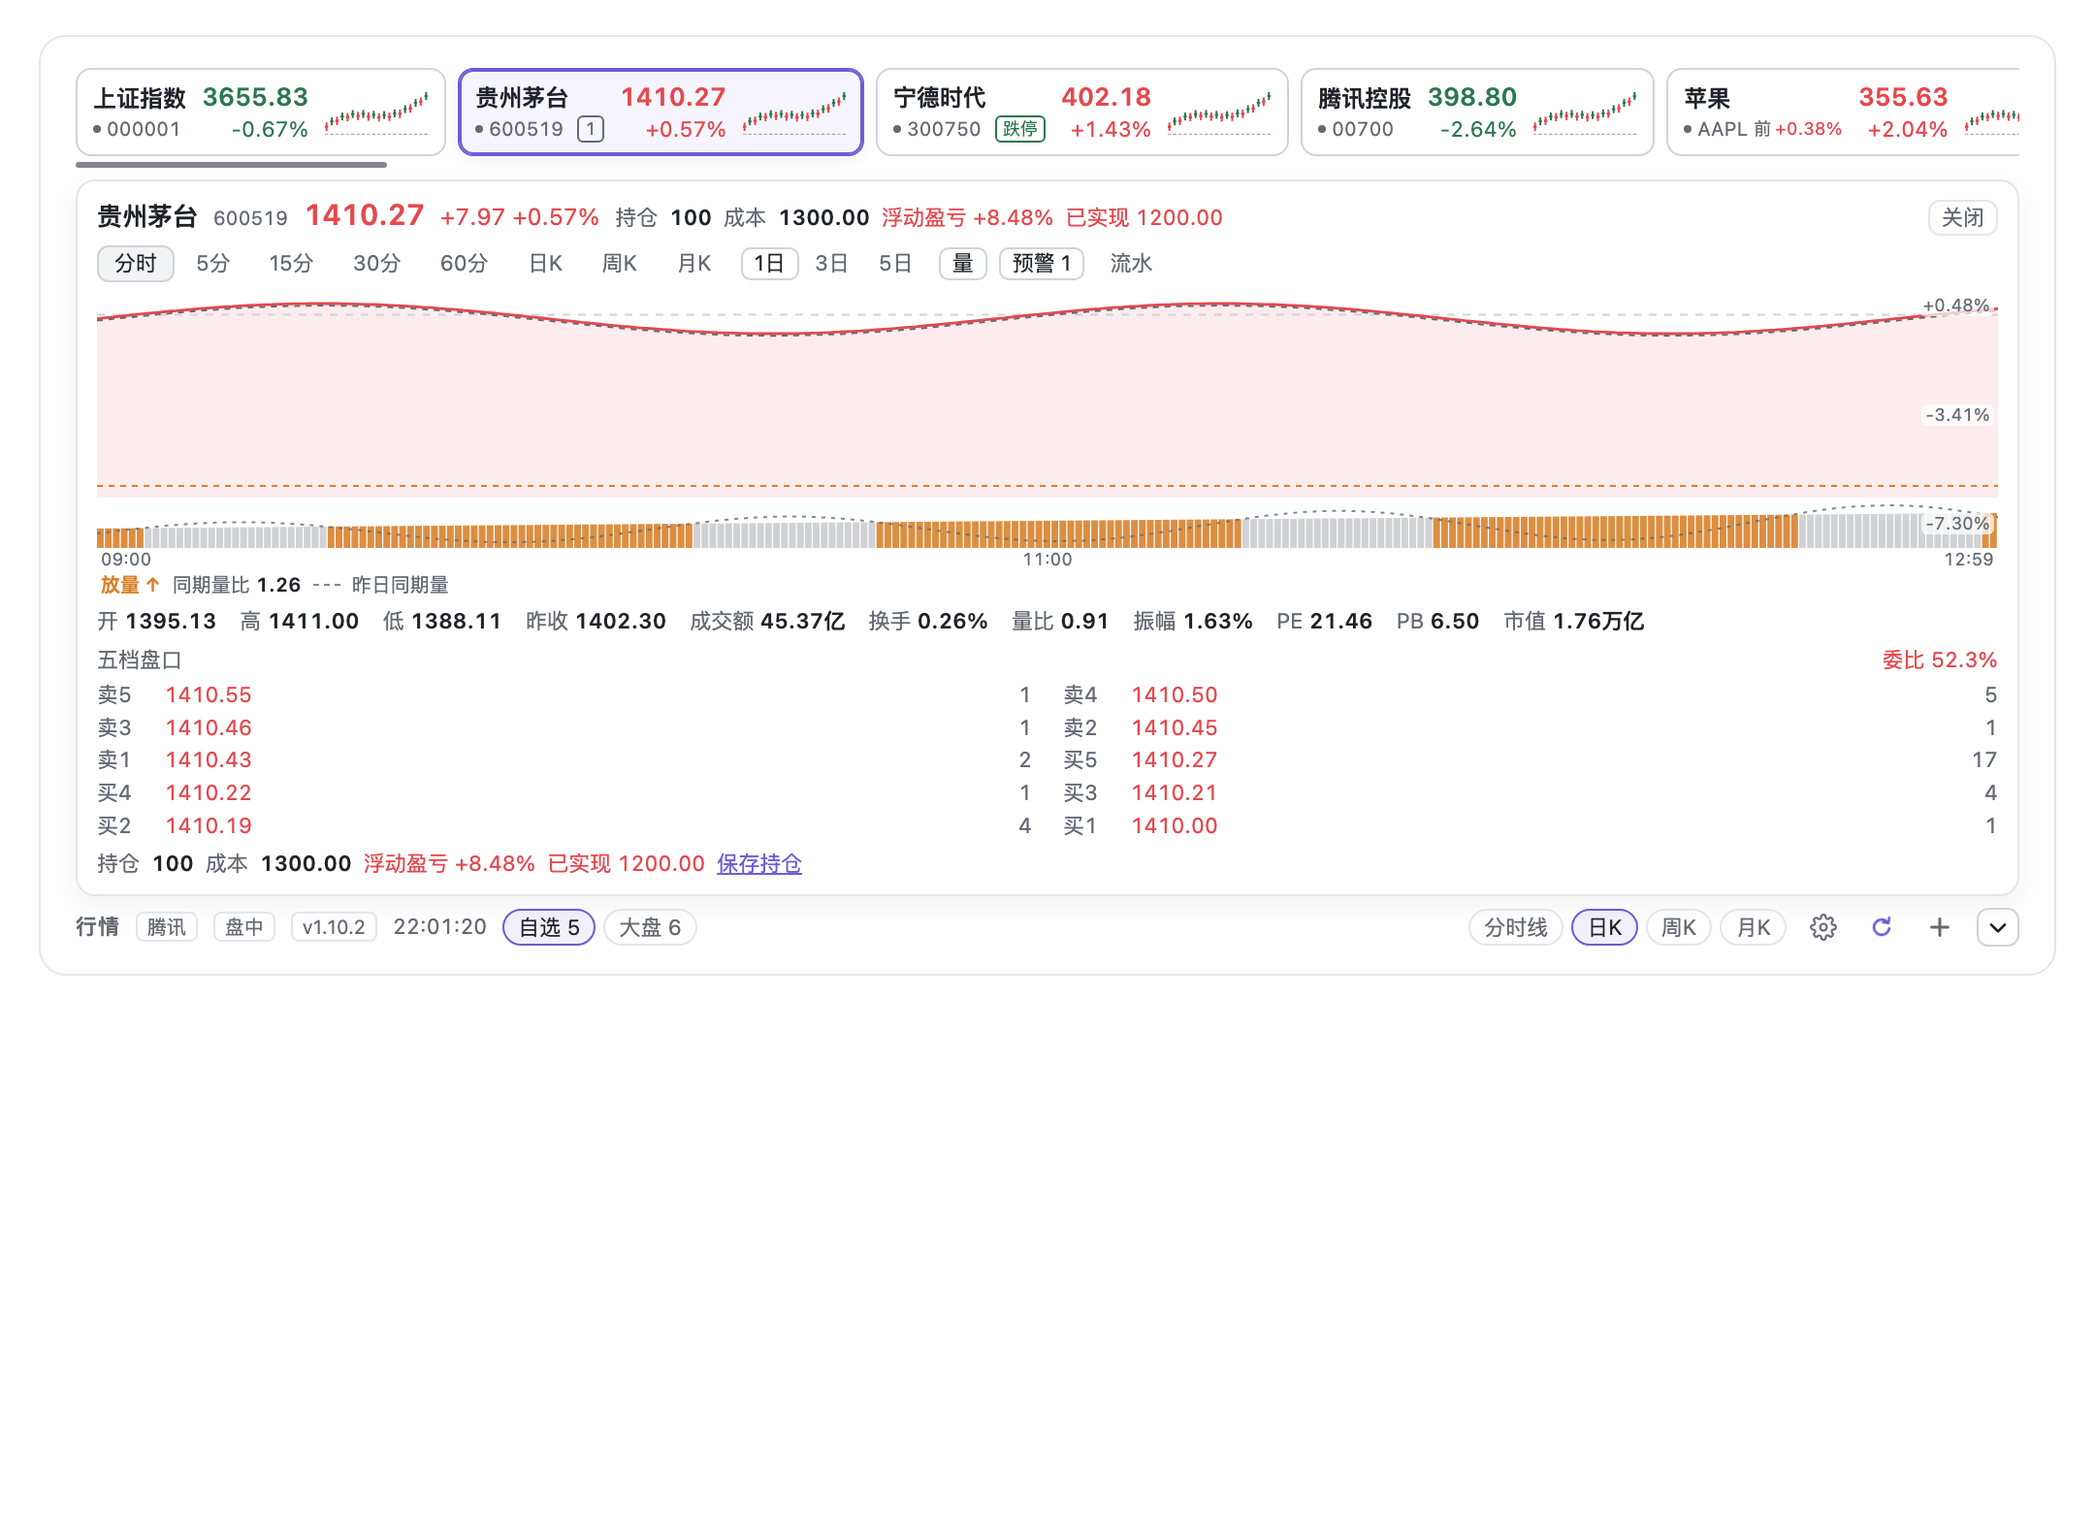
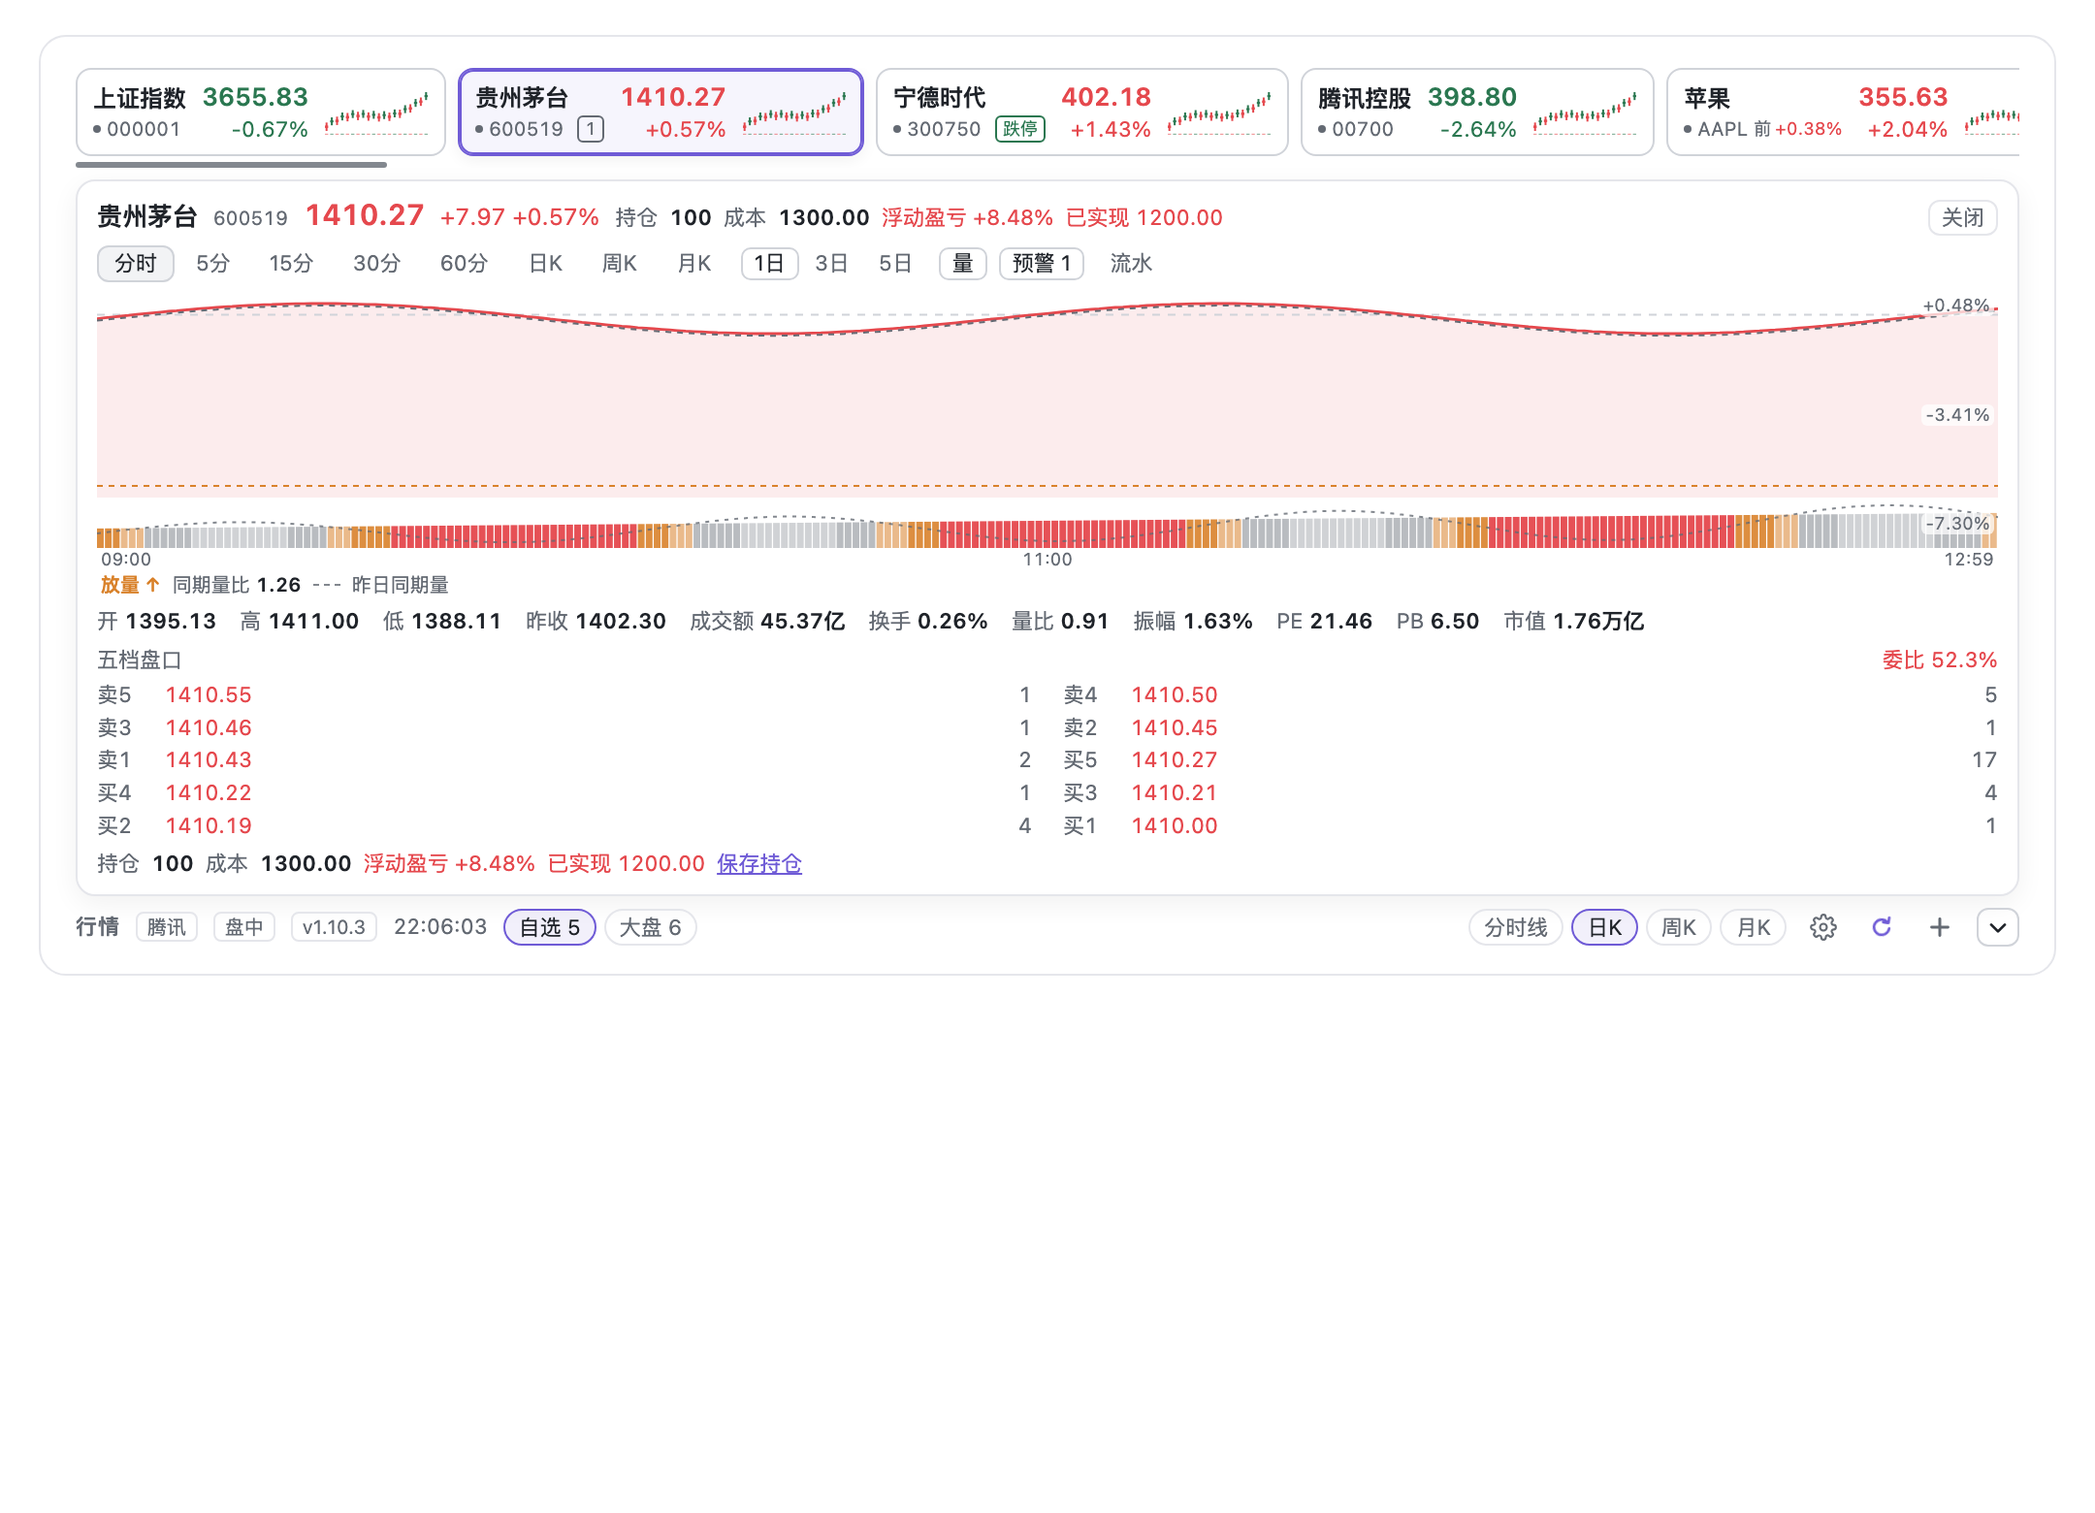
style(client): graduate the volume bar colours (1.10.3)
Volume no longer maps to a single orange/grey pair. The bar colour and opacity
now follow the ratio to the previous session: >=1.5x red, >=1.15x orange,
>=1x pale orange, then progressively lighter greys, with very light grey below
0.6x. The hover/readout signal turns red for the heavy tier and the minute-K
legend explains the scale.

- Applies to the intraday band and 5/15/30/60-minute K bars. 84 tests.

Local commit only; not pushed.

Changed region(s): [[0.6824, 0.3385, 0.8685, 0.3692], [0.4032, 0.3385, 0.5894, 0.3692], [0.1551, 0.3385, 0.3412, 0.3692]]

diff --git a/client.js b/client.js
@@ -16,7 +16,7 @@ window.__ModuleLoader__.load({
     const { useCallback, useEffect, useMemo, useRef, useState } = React
 
     const NS = 'stockTicker'
-    const BUILD = 'v1.10.2'
+    const BUILD = 'v1.10.3'
     const ENDPOINT = '/dsh-stock-ticker'
     const COLLAPSE_KEY = 'dsh-stock-ticker:collapsed'
     const STYLE_ID = 'stock-ticker'
@@ -77,7 +77,7 @@ window.__ModuleLoader__.load({
       volumeFlat: '平量',
       volumeBaseline: '前{n}日均量',
       volumeBaselinePrev: '昨日同期量',
-      volumeKlineHint: '橙=放量 · 灰=缩量 · 虚线=上一交易日同期',
+      volumeKlineHint: '红/橙=放量 · 越淡越缩量 · 虚线=上一交易日同期',
       range: '区间',
       rangeBars: '根',
       rangeChange: '涨跌幅',
@@ -246,7 +246,7 @@ window.__ModuleLoader__.load({
       volumeFlat: 'Steady',
       volumeBaseline: 'prior {n}-day avg',
       volumeBaselinePrev: 'prev session',
-      volumeKlineHint: 'orange = expanding · grey = shrinking · dashed = previous session',
+      volumeKlineHint: 'red/orange = expanding · paler = shrinking · dashed = previous session',
       range: 'Range',
       rangeBars: 'bars',
       rangeChange: 'Change',
@@ -617,6 +617,7 @@ window.__ModuleLoader__.load({
 .dshst-chartNote b { color: var(--dsw-alias-label-primary); font-weight: 600; }
 .dshst-volumeSignal { font-weight: 600; }
 .dshst-volumeSignal[data-trend="up"] { color: var(--dsw-alias-state-warn-primary); }
+.dshst-volumeSignal[data-trend="up"][data-strength="strong"] { color: var(--dsw-alias-state-error-primary); }
 .dshst-volumeSignal[data-trend="down"],
 .dshst-volumeSignal[data-trend="flat"] { color: var(--dsw-alias-label-secondary); }
 .dshst-baselineSwatch {
@@ -1339,6 +1340,21 @@ window.__ModuleLoader__.load({
     ]
 
     /**
+     * Volume intensity tiers: red for a heavy expansion, orange for a normal
+     * one, pale orange for a slight one, and progressively lighter greys for
+     * shrinking volume. Colours are theme tokens; opacity is the intensity.
+     */
+    function volumeBarTone(ratio) {
+      if (typeof ratio !== 'number' || !Number.isFinite(ratio)) return null
+      if (ratio >= 1.5) return { fill: 'var(--dsw-alias-state-error-primary)', fillOpacity: 0.95 }
+      if (ratio >= 1.15) return { fill: 'var(--dsw-alias-state-warn-primary)', fillOpacity: 0.9 }
+      if (ratio >= 1) return { fill: 'var(--dsw-alias-state-warn-primary)', fillOpacity: 0.55 }
+      if (ratio >= 0.85) return { fill: 'var(--dsw-alias-label-secondary)', fillOpacity: 0.45 }
+      if (ratio >= 0.6) return { fill: 'var(--dsw-alias-label-secondary)', fillOpacity: 0.3 }
+      return { fill: 'var(--dsw-alias-border-l2)', fillOpacity: 0.8 }
+    }
+
+    /**
      * Minute K rows spell their timestamp as YYYYMMDDHHMM. For each row, find
      * the same HHMM on the previous trading day present in this page, which is
      * the baseline the volume comparison uses.
@@ -1530,7 +1546,8 @@ window.__ModuleLoader__.load({
         if (maxVolume > 0 && typeof row.volume === 'number') {
           const barHeight = Math.max(0.6, (row.volume / maxVolume) * (volumeBand - 3))
           const baseline = volumeBaseline.get(String(row.date))
-          const above = typeof baseline === 'number' && baseline > 0 ? row.volume > baseline : null
+          const ratio = typeof baseline === 'number' && baseline > 0 ? row.volume / baseline : null
+          const tone = volumeBarTone(ratio)
           children.push(
             h('rect', {
               key: `v${index}`,
@@ -1538,10 +1555,7 @@ window.__ModuleLoader__.load({
               y: height - barHeight,
               width: bodyWidth,
               height: barHeight,
-              style: {
-                fill: above === null ? color : above ? 'var(--dsw-alias-state-warn-primary)' : 'var(--dsw-alias-label-secondary)',
-                fillOpacity: above === null ? 0.55 : above ? 0.9 : 0.3,
-              },
+              style: { fill: tone?.fill ?? color, fillOpacity: tone?.fillOpacity ?? 0.55 },
             }),
           )
         }
@@ -1781,6 +1795,8 @@ window.__ModuleLoader__.load({
           ? active.volume / activeBaseline
           : null
       const activeSignal = activeRatio === null ? null : activeRatio > 1 ? 'up' : activeRatio < 1 ? 'down' : 'flat'
+      const activeStrength =
+        activeRatio === null ? 'mild' : activeRatio >= 1.5 ? 'strong' : activeRatio >= 1.15 ? 'medium' : 'mild'
       const activeLabel =
         activeSignal === 'up' ? t('volumeExpand') : activeSignal === 'down' ? t('volumeShrink') : t('volumeFlat')
       const yLabels = [max, (max + min) / 2, min].map((value) => ({
@@ -1805,7 +1821,7 @@ window.__ModuleLoader__.load({
                 ? null
                 : h(
                     'span',
-                    { className: 'dshst-volumeSignal', 'data-trend': activeSignal },
+                    { className: 'dshst-volumeSignal', 'data-trend': activeSignal, 'data-strength': activeStrength },
                     ` · ${activeLabel} ${activeRatio.toFixed(2)}×`,
                   ),
               activeSignal === null ? null : ` · ${t('volumePrev')} ${shortNumber(activeBaseline)}`,
@@ -2286,19 +2302,10 @@ window.__ModuleLoader__.load({
             // Brighten bars that beat their same-time baseline and fade the ones
             // below it; the colour still means price direction, not volume.
             const reference = baselineAt.get(point.time)
-            // Binary against yesterday at this minute: orange = more, grey =
-            // less or equal. No third colour, so the volume story stays simple;
-            // the price line above already carries direction.
-            const above = typeof reference === 'number' && reference > 0 ? point.volume > reference : null
-            const fill =
-              above === null
-                ? rising
-                  ? up
-                  : 'var(--dshst-down)'
-                : above
-                  ? 'var(--dsw-alias-state-warn-primary)'
-                  : 'var(--dsw-alias-label-secondary)'
-            const fillOpacity = above === null ? 0.5 : above ? 0.9 : 0.3
+            const ratio = typeof reference === 'number' && reference > 0 ? point.volume / reference : null
+            const tone = volumeBarTone(ratio)
+            const fill = tone?.fill ?? (rising ? up : 'var(--dshst-down)')
+            const fillOpacity = tone?.fillOpacity ?? 0.5
             const hovered = hover === index
             children.push(
               h('rect', {
@@ -2359,6 +2366,7 @@ window.__ModuleLoader__.load({
           ? active.volume / activeReference
           : null
       const activeSignal = activeRatio === null ? null : activeRatio > 1 ? 'up' : activeRatio < 1 ? 'down' : 'flat'
+      const activeStrength = activeRatio === null ? 'mild' : activeRatio >= 1.5 ? 'strong' : activeRatio >= 1.15 ? 'medium' : 'mild'
       const activeLabel =
         activeSignal === 'up' ? t('volumeExpand') : activeSignal === 'down' ? t('volumeShrink') : t('volumeFlat')
       return h(
@@ -2402,12 +2410,13 @@ window.__ModuleLoader__.load({
           const ratio = baselineCum > 0 ? todayCum / baselineCum : null
           if (ratio === null) return null
           const signal = ratio >= 1.05 ? 'up' : ratio <= 0.95 ? 'down' : 'flat'
+          const strength = ratio >= 1.5 ? 'strong' : ratio >= 1.15 ? 'medium' : 'mild'
           const label = signal === 'up' ? t('volumeExpand') : signal === 'down' ? t('volumeShrink') : t('volumeFlat')
           const arrow = signal === 'up' ? '↑' : signal === 'down' ? '↓' : '→'
           return h(
             'div',
             { className: 'dshst-chartNote' },
-            h('span', { className: 'dshst-volumeSignal', 'data-trend': signal }, `${label} ${arrow}`),
+            h('span', { className: 'dshst-volumeSignal', 'data-trend': signal, 'data-strength': strength }, `${label} ${arrow}`),
             h('span', null, `${t('volumeCompare')} `, h('b', null, ratio.toFixed(2))),
             h('span', { className: 'dshst-baselineSwatch', 'aria-hidden': true }),
             h(
@@ -2430,7 +2439,7 @@ window.__ModuleLoader__.load({
                 ? null
                 : h(
                     'span',
-                    { className: 'dshst-volumeSignal', 'data-trend': activeSignal },
+                    { className: 'dshst-volumeSignal', 'data-trend': activeSignal, 'data-strength': activeStrength },
                     ` · ${activeLabel} ${activeRatio.toFixed(2)}×`,
                   ),
               activeSignal === null ? null : ` · ${t('volumePrev')} ${shortNumber(activeReference)}`,

diff --git a/README.en.md b/README.en.md
@@ -2,7 +2,7 @@
 
 [中文](README.md) · **English**
 
-![version](https://img.shields.io/badge/version-1.10.2-blue)
+![version](https://img.shields.io/badge/version-1.10.3-blue)
 ![license](https://img.shields.io/badge/license-MIT-green)
 ![dsh](https://img.shields.io/badge/DSH-0.2.x-6f5bd6)
 ![data](https://img.shields.io/badge/data-Tencent%20%7C%20Sina%20%7C%20Eastmoney-orange)
@@ -25,7 +25,7 @@ A quote strip pinned under the DeepSeek Harness composer for A-shares, Hong Kong
 - **Card management**: a hover `×` removes one symbol, cards reorder with a live gap while dragging, the trailing `＋` opens search
 - **Search**: code, Chinese name or pinyin, merged from Eastmoney suggest and Tencent smartbox
 - **Watchlist groups**: several lists switched by the header pills; a "market" group is seeded on first install (SSE, SZSE, ChiNext, STAR 50, Hang Seng, Nasdaq)
-- **Charts**: `intraday / 5m / 15m / 30m / 60m / daily / weekly / monthly`; intraday overlays 1/3/5 days with day separators, volume and a percentage axis, and the one-day view adds the previous session's same-time volume plus the same-time ratio, with orange bars for expansion and grey for contraction; 5/15/30/60-minute volume bars compare with the same slot on the previous session (orange expanding / grey shrinking, dashed prior-session line); K-lines switch forward/backward/raw adjust, MA and volume toggles, hover crosshair with a readout; drag horizontally on a K-line chart to select a range and see its high, low, change, amplitude and volume
+- **Charts**: `intraday / 5m / 15m / 30m / 60m / daily / weekly / monthly`; intraday overlays 1/3/5 days with day separators, volume and a percentage axis, and the one-day view adds the previous session's same-time volume plus the same-time ratio, with red/orange bars for expansion and progressively paler greys for contraction; 5/15/30/60-minute volume bars compare with the same slot on the previous session (red/orange expanding, paler greys shrinking, dashed prior-session line); K-lines switch forward/backward/raw adjust, MA and volume toggles, hover crosshair with a readout; drag horizontally on a K-line chart to select a range and see its high, low, change, amplitude and volume
 - **Order book**: five bids and asks plus the bid/ask ratio
 - **A-share fields**: turnover, turnover rate, volume ratio, amplitude, P/E, P/B, float and total market cap
 - **US pre/post market**: opt-in; cards and the detail header show the extended-hours price, percent and timestamp (from Sina's `gb_` rows)

diff --git a/README.md b/README.md
@@ -2,7 +2,7 @@
 
 **中文** · [English](README.en.md)
 
-![version](https://img.shields.io/badge/version-1.10.2-blue)
+![version](https://img.shields.io/badge/version-1.10.3-blue)
 ![license](https://img.shields.io/badge/license-MIT-green)
 ![dsh](https://img.shields.io/badge/DSH-0.2.x-6f5bd6)
 ![data](https://img.shields.io/badge/data-Tencent%20%7C%20Sina%20%7C%20Eastmoney-orange)
@@ -25,7 +25,7 @@
 - **卡片管理**：悬停出现 `×` 单只移除，拖拽卡片实时让位排序（拖动时就滑出空位），末尾 `＋` 直接打开搜索
 - **搜索添加**：按代码、中文名或拼音搜（东财 suggest + 腾讯 smartbox 双源合并）
 - **分组自选**：多个自选表，头部胶囊切换；新装有「大盘」预置组（上证/深证/创业板/科创50/恒生/纳斯达克）
-- **详情图表**：`分时 / 5分 / 15分 / 30分 / 60分 / 日K / 周K / 月K`；分时 1/3/5 日叠加（按交易日分隔、带成交量柱与百分比轴），单日分时叠加上一交易日同期量虚线，柱色橙=放量/灰=缩量，并显示同期量比；5/15/30/60 分钟 K 的成交量柱按上一交易日同一时段对比（橙放量/灰缩量，虚线为昨日同期）；K 线可切前/后/不复权，MA 与成交量副图可开关，鼠标划过有十字光标与读数；在 K 线图上横向拖拽可选区间，标出区间并显示最高/最低/涨跌幅/振幅/成交量
+- **详情图表**：`分时 / 5分 / 15分 / 30分 / 60分 / 日K / 周K / 月K`；分时 1/3/5 日叠加（按交易日分隔、带成交量柱与百分比轴），单日分时叠加上一交易日同期量虚线，柱色红/橙=放量、越淡越缩量，并显示同期量比；5/15/30/60 分钟 K 的成交量柱按上一交易日同一时段对比（红/橙放量、越淡越缩量，虚线为昨日同期）；K 线可切前/后/不复权，MA 与成交量副图可开关，鼠标划过有十字光标与读数；在 K 线图上横向拖拽可选区间，标出区间并显示最高/最低/涨跌幅/振幅/成交量
 - **五档盘口**：买卖各五档（价 + 量）和委比
 - **A 股指标**：成交额、换手率、量比、振幅、市盈率、市净率、流通市值 / 总市值
 - **美股盘前 / 盘后**：可选开关，打开后卡片与详情会显示盘前/盘后价格、涨跌幅和时间（数据来自新浪 `gb_` 行）

diff --git a/CHANGELOG.md b/CHANGELOG.md
@@ -563,3 +563,15 @@ Settings discoverability and the options the strip was missing.
 - The strip itself now accepts `dragover`/`drop` and chooses the nearest card,
   so releasing in the gap between cards also commits, not only on a card.
 - Test updated for the visible placeholder. 84 tests.
+
+## 1.10.3 — 2026-11-13
+
+- The volume bars now have graduated intensity instead of only orange/grey:
+  - `>= 1.5x` a heavy expansion → red;
+  - `>= 1.15x` a normal expansion → orange;
+  - `>= 1x` a slight expansion → pale orange;
+  - `< 1x` shrinking → progressively lighter greys, with very light grey below
+    `0.6x` for a clear "quiet" reading.
+- Applies to both the intraday volume band and the 5/15/30/60-minute K bars;
+  the hover/readout signal turns red for the heavy tier and the minute-K legend
+  now says "red/orange = expanding · paler = shrinking". 84 tests.
